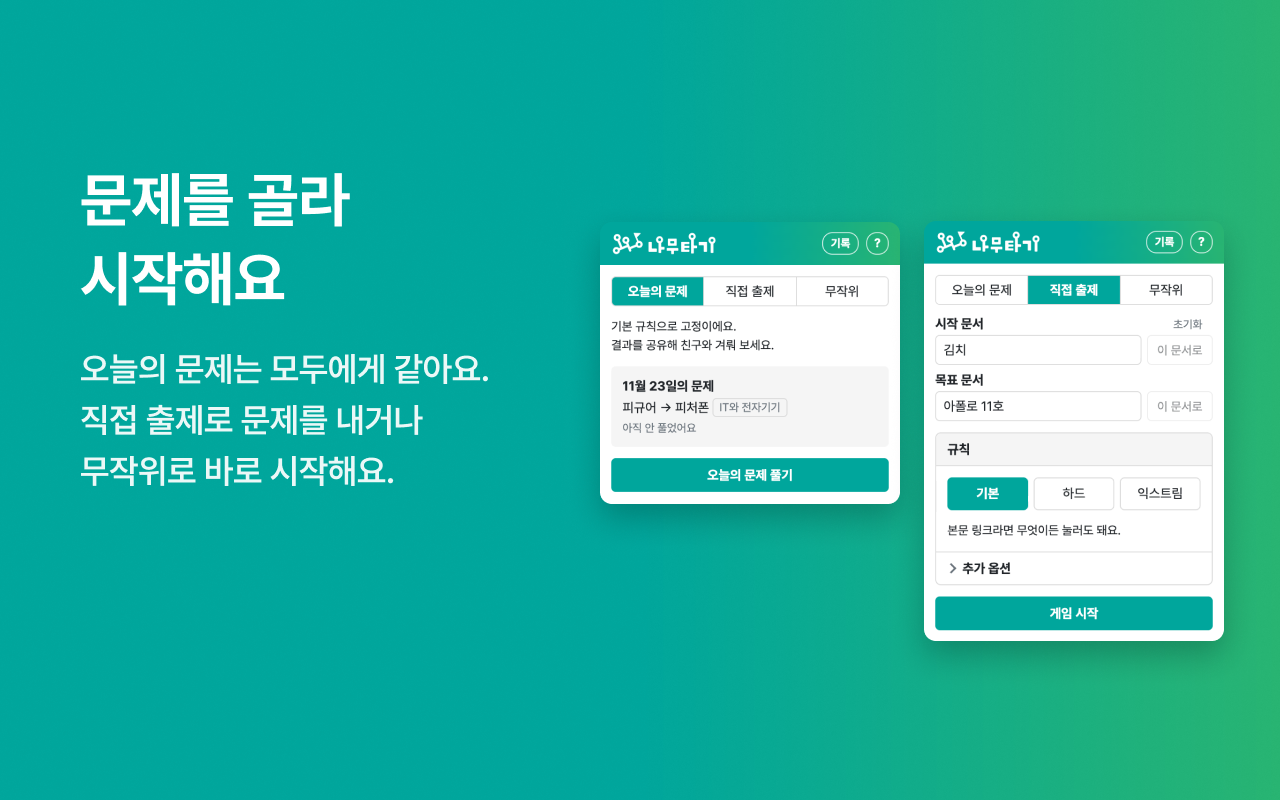
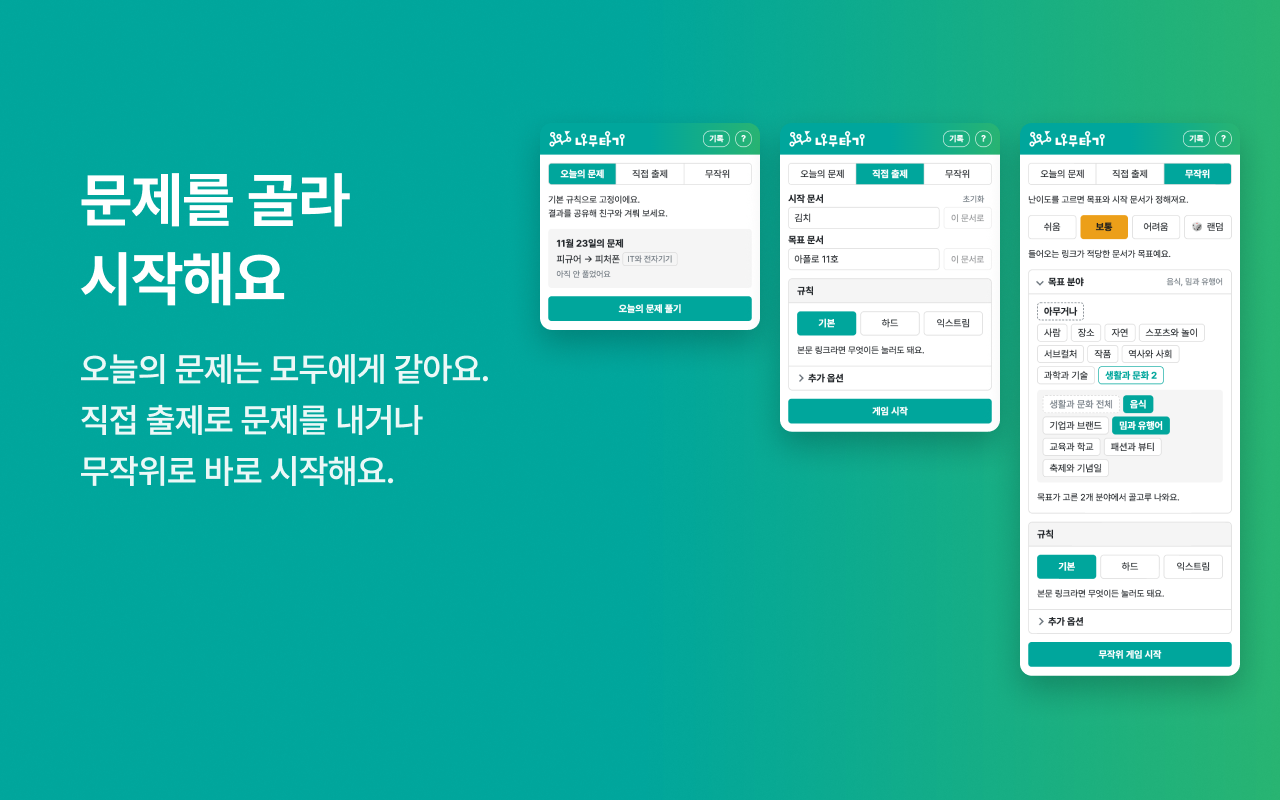
무작위 팝업 사진 추가: 랜딩, README, Figma 슬라이드 2, shots.mjs

Changed region(s): [[0.4062, 0.1562, 0.9688, 0.875]]

diff --git a/demo/photos.html b/demo/photos.html
@@ -2,4 +2,4 @@
 <style>body{font:14px/1.5 Pretendard,system-ui,sans-serif;margin:24px;background:#f4f4f4;color:#222}h2{margin:32px 0 8px;font-size:16px}
 .row{display:flex;gap:12px;align-items:flex-start;flex-wrap:wrap}figure{margin:0}figcaption{font-size:12px;color:#666;margin-bottom:4px}
 img{display:block;max-width:100%;border:1px solid #ccc;background:#fff}.sh img{width:470px}.sh .p img{width:230px}.st img{width:560px}</style>
-<h1>나무타기 사진 전체(2026-11-09 다시 찍음)</h1><h2>랜딩, 환영 페이지, README 사진(밝은, 어두운)</h2><div class="row sh"><figure class=""><figcaption>시작(목표 카드) light</figcaption><img src="../server/public/shots/start-light.webp?light5"></figure><figure class=""><figcaption>시작(목표 카드) dark</figcaption><img src="../server/public/shots/start-dark.webp?dark5"></figure><figure class=""><figcaption>카운트다운 light</figcaption><img src="../server/public/shots/countdown-light.webp?light5"></figure><figure class=""><figcaption>카운트다운 dark</figcaption><img src="../server/public/shots/countdown-dark.webp?dark5"></figure><figure class=""><figcaption>경로 펼침 light</figcaption><img src="../server/public/shots/play-light.webp?light5"></figure><figure class=""><figcaption>경로 펼침 dark</figcaption><img src="../server/public/shots/play-dark.webp?dark5"></figure><figure class=""><figcaption>도착 결과 light</figcaption><img src="../server/public/shots/result-light.webp?light5"></figure><figure class=""><figcaption>도착 결과 dark</figcaption><img src="../server/public/shots/result-dark.webp?dark5"></figure><figure class=""><figcaption>도전장 수락 light</figcaption><img src="../server/public/shots/invite-light.webp?light5"></figure><figure class=""><figcaption>도전장 수락 dark</figcaption><img src="../server/public/shots/invite-dark.webp?dark5"></figure><figure class=""><figcaption>승리 light</figcaption><img src="../server/public/shots/win-light.webp?light5"></figure><figure class=""><figcaption>승리 dark</figcaption><img src="../server/public/shots/win-dark.webp?dark5"></figure><figure class="p"><figcaption>팝업 오늘의 문제 light</figcaption><img src="../server/public/shots/popup-today-light.webp?light5"></figure><figure class="p"><figcaption>팝업 오늘의 문제 dark</figcaption><img src="../server/public/shots/popup-today-dark.webp?dark5"></figure><figure class="p"><figcaption>팝업 직접 출제 light</figcaption><img src="../server/public/shots/popup-custom-light.webp?light5"></figure><figure class="p"><figcaption>팝업 직접 출제 dark</figcaption><img src="../server/public/shots/popup-custom-dark.webp?dark5"></figure><figure class="p"><figcaption>팝업 규칙 light</figcaption><img src="../server/public/shots/popup-rules-light.webp?light5"></figure><figure class="p"><figcaption>팝업 규칙 dark</figcaption><img src="../server/public/shots/popup-rules-dark.webp?dark5"></figure><figure class="p"><figcaption>팝업 기록 light</figcaption><img src="../server/public/shots/popup-records-light.webp?light5"></figure><figure class="p"><figcaption>팝업 기록 dark</figcaption><img src="../server/public/shots/popup-records-dark.webp?dark5"></figure></div><h2>웹스토어 그림(Figma 기본 문서에서 내보냄)</h2><div class="row st"><figure><figcaption>screenshot-1</figcaption><img src="../store/images/screenshot-1.png"></figure><figure><figcaption>screenshot-2</figcaption><img src="../store/images/screenshot-2.png"></figure><figure><figcaption>screenshot-3</figcaption><img src="../store/images/screenshot-3.png"></figure><figure><figcaption>screenshot-4</figcaption><img src="../store/images/screenshot-4.png"></figure><figure><figcaption>screenshot-5</figcaption><img src="../store/images/screenshot-5.png"></figure><figure><figcaption>marquee-1400x560</figcaption><img src="../store/images/marquee-1400x560.png"></figure><figure><figcaption>promo-440x280</figcaption><img src="../store/images/promo-440x280.png"></figure></div>
+<h1>나무타기 사진 전체(2026-11-09 다시 찍음)</h1><h2>랜딩, 환영 페이지, README 사진(밝은, 어두운)</h2><div class="row sh"><figure class=""><figcaption>시작(목표 카드) light</figcaption><img src="../server/public/shots/start-light.webp?light5"></figure><figure class=""><figcaption>시작(목표 카드) dark</figcaption><img src="../server/public/shots/start-dark.webp?dark5"></figure><figure class=""><figcaption>카운트다운 light</figcaption><img src="../server/public/shots/countdown-light.webp?light5"></figure><figure class=""><figcaption>카운트다운 dark</figcaption><img src="../server/public/shots/countdown-dark.webp?dark5"></figure><figure class=""><figcaption>경로 펼침 light</figcaption><img src="../server/public/shots/play-light.webp?light5"></figure><figure class=""><figcaption>경로 펼침 dark</figcaption><img src="../server/public/shots/play-dark.webp?dark5"></figure><figure class=""><figcaption>도착 결과 light</figcaption><img src="../server/public/shots/result-light.webp?light5"></figure><figure class=""><figcaption>도착 결과 dark</figcaption><img src="../server/public/shots/result-dark.webp?dark5"></figure><figure class=""><figcaption>도전장 수락 light</figcaption><img src="../server/public/shots/invite-light.webp?light5"></figure><figure class=""><figcaption>도전장 수락 dark</figcaption><img src="../server/public/shots/invite-dark.webp?dark5"></figure><figure class=""><figcaption>승리 light</figcaption><img src="../server/public/shots/win-light.webp?light5"></figure><figure class=""><figcaption>승리 dark</figcaption><img src="../server/public/shots/win-dark.webp?dark5"></figure><figure class="p"><figcaption>팝업 오늘의 문제 light</figcaption><img src="../server/public/shots/popup-today-light.webp?light5"></figure><figure class="p"><figcaption>팝업 오늘의 문제 dark</figcaption><img src="../server/public/shots/popup-today-dark.webp?dark5"></figure><figure class="p"><figcaption>팝업 무작위 light</figcaption><img src="../server/public/shots/popup-random-light.webp?light5"></figure><figure class="p"><figcaption>팝업 무작위 dark</figcaption><img src="../server/public/shots/popup-random-dark.webp?dark5"></figure><figure class="p"><figcaption>팝업 직접 출제 light</figcaption><img src="../server/public/shots/popup-custom-light.webp?light5"></figure><figure class="p"><figcaption>팝업 직접 출제 dark</figcaption><img src="../server/public/shots/popup-custom-dark.webp?dark5"></figure><figure class="p"><figcaption>팝업 규칙 light</figcaption><img src="../server/public/shots/popup-rules-light.webp?light5"></figure><figure class="p"><figcaption>팝업 규칙 dark</figcaption><img src="../server/public/shots/popup-rules-dark.webp?dark5"></figure><figure class="p"><figcaption>팝업 기록 light</figcaption><img src="../server/public/shots/popup-records-light.webp?light5"></figure><figure class="p"><figcaption>팝업 기록 dark</figcaption><img src="../server/public/shots/popup-records-dark.webp?dark5"></figure></div><h2>웹스토어 그림(Figma 기본 문서에서 내보냄)</h2><div class="row st"><figure><figcaption>screenshot-1</figcaption><img src="../store/images/screenshot-1.png"></figure><figure><figcaption>screenshot-2</figcaption><img src="../store/images/screenshot-2.png"></figure><figure><figcaption>screenshot-3</figcaption><img src="../store/images/screenshot-3.png"></figure><figure><figcaption>screenshot-4</figcaption><img src="../store/images/screenshot-4.png"></figure><figure><figcaption>screenshot-5</figcaption><img src="../store/images/screenshot-5.png"></figure><figure><figcaption>marquee-1400x560</figcaption><img src="../store/images/marquee-1400x560.png"></figure><figure><figcaption>promo-440x280</figcaption><img src="../store/images/promo-440x280.png"></figure></div>

diff --git a/server/public/index.html b/server/public/index.html
@@ -59,6 +59,7 @@
     <div class="pops">
       <figure><picture><source media="(prefers-color-scheme: dark)" srcset="shots/popup-today-dark.webp?v=5"><img src="shots/popup-today-light.webp?v=5" loading="lazy" alt="팝업의 오늘의 문제 탭"></picture><figcaption>오늘의 문제</figcaption></figure>
       <figure><picture><source media="(prefers-color-scheme: dark)" srcset="shots/popup-custom-dark.webp?v=5"><img src="shots/popup-custom-light.webp?v=5" loading="lazy" alt="팝업의 직접 출제 탭"></picture><figcaption>직접 출제</figcaption></figure>
+      <figure><picture><source media="(prefers-color-scheme: dark)" srcset="shots/popup-random-dark.webp?v=5"><img src="shots/popup-random-light.webp?v=5" loading="lazy" alt="팝업의 무작위 탭과 목표 분야"></picture><figcaption>무작위</figcaption></figure>
     </div>
     <p>나무위키에서 우클릭해서 지금 문서를 시작이나 목표로 바로 넣을 수도 있어요.</p>
   </div>

diff --git a/README.md b/README.md
@@ -43,6 +43,7 @@
   <tr>
     <td valign="top"><picture><source media="(prefers-color-scheme: dark)" srcset="server/public/shots/popup-today-dark.webp"><img src="server/public/shots/popup-today-light.webp" width="240" alt="팝업의 오늘의 문제 탭"></picture></td>
     <td valign="top"><picture><source media="(prefers-color-scheme: dark)" srcset="server/public/shots/popup-rules-dark.webp"><img src="server/public/shots/popup-rules-light.webp" width="240" alt="팝업의 직접 출제 탭과 규칙 모드, 추가 옵션"></picture></td>
+    <td valign="top"><picture><source media="(prefers-color-scheme: dark)" srcset="server/public/shots/popup-random-dark.webp"><img src="server/public/shots/popup-random-light.webp" width="240" alt="팝업의 무작위 탭과 목표 분야"></picture></td>
   </tr>
 </table>
 
